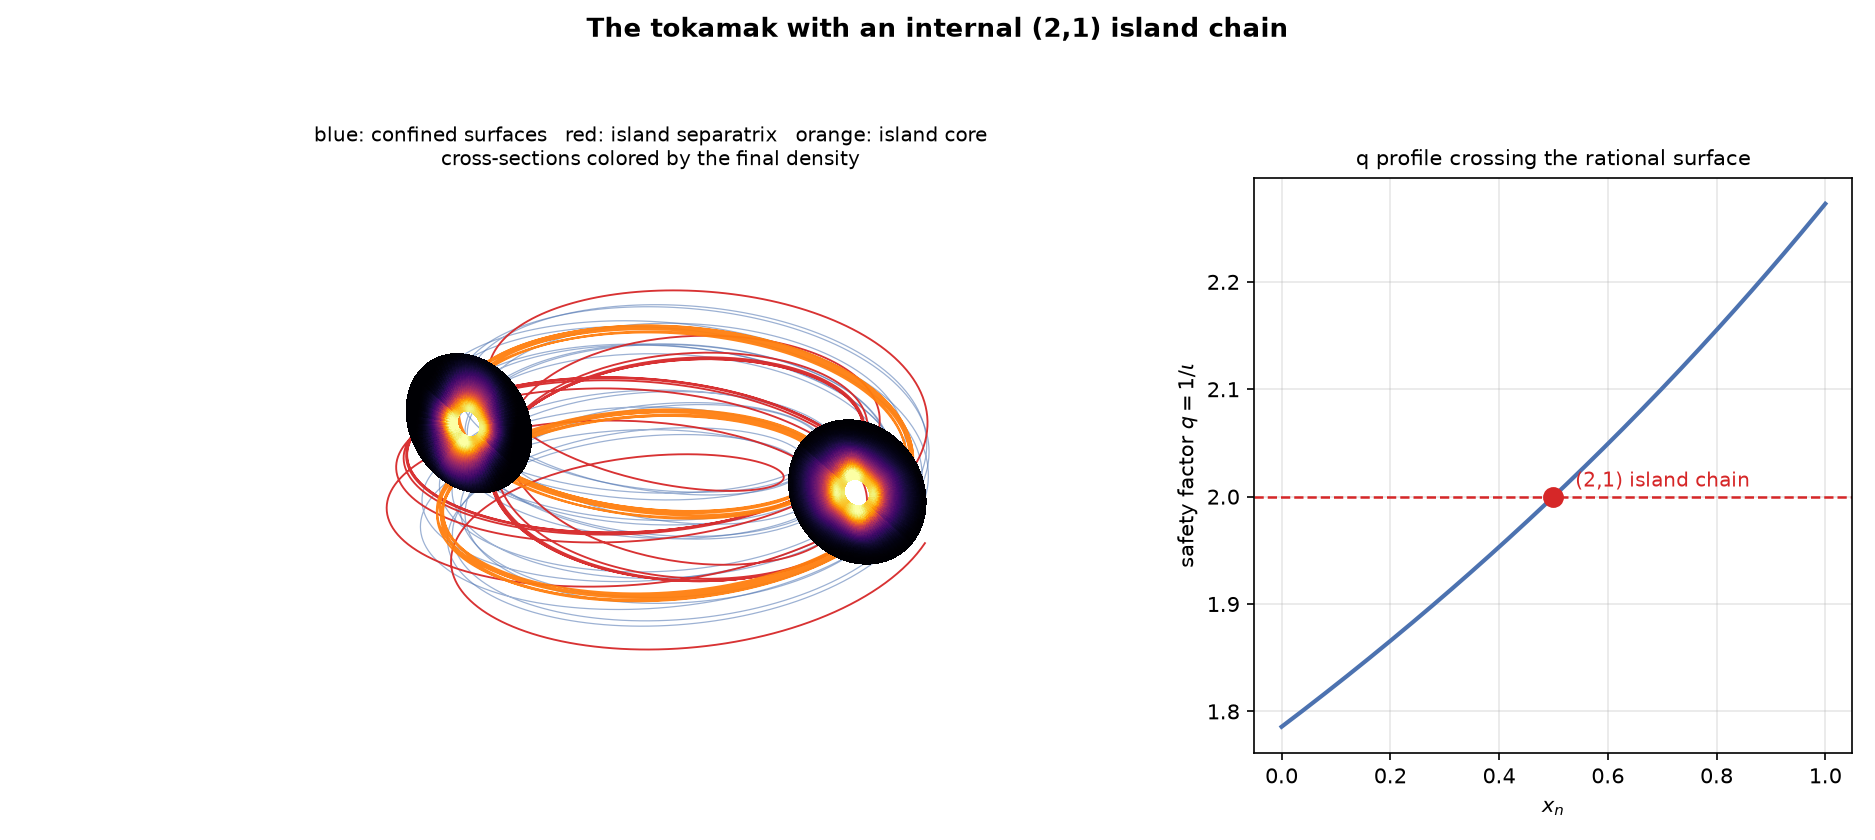
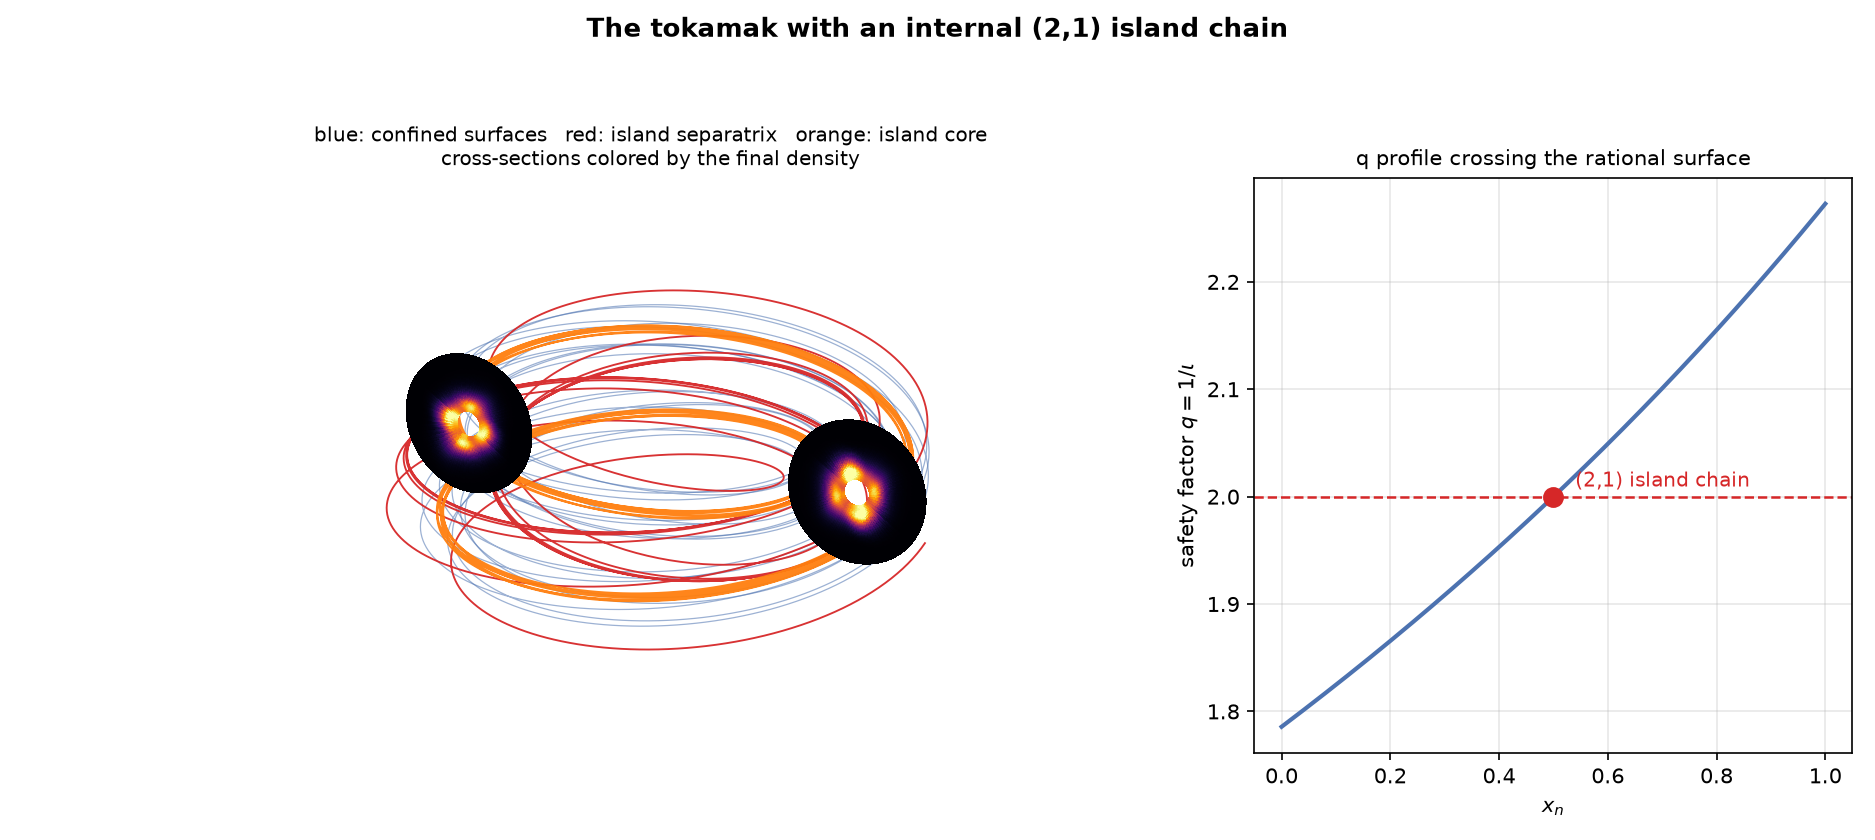
island tokamak: turbulent regime -- flattening recovered, media redone
The previous production run was subcritical (fluctuation energy 0.004)
and 85% of the movie was a static steady state. A drive-escalation
ladder (S0 x2, D /2, hyperviscosity eased per rung: fluctuation energy
0.004 -> 0.03 -> 0.21 -> 1.5) reaches a genuinely turbulent state, and
with it the classic island signature the damped regime could not
produce: the mean profile now FLATTENS across the chain, gradient ratio
inside/outside = 0.83 at 48x96x32 (0.73 in the pilot) -- Fitzpatrick's
criterion in numerical form, laminar-no-flattening vs
turbulent-flattened, reproducible from the env knobs alone.

All media are rebuilt from the turbulent run (S0 = 24, D = 0.005,
HYPER = 0.3, t = 6 -- the movie is now all dynamics: profile build-up,
instability onset, saturated blobs erupting through the cross-sections).
Docs and README carry the updated numbers and the two-regime story; the
recovered-vs-new table upgrades the flattening row from "not in the
default run" to recovered. The evolution renderer learned the four-plane
slice format, and the hyperviscosity became env-tunable
(DRBX_ISLAND_HYPER).

Changed region(s): [[0.4021, 0.4952, 0.4949, 0.65], [0.2165, 0.4333, 0.2784, 0.5881]]

diff --git a/examples/island_tokamak_profiles.py b/examples/island_tokamak_profiles.py
@@ -21,15 +21,13 @@ flux-driven:
   (48x96x32, fp32, ~1 h on a 16 GB GPU).
 
 The classic island observable -- mean-profile flattening across the chain
-as parallel transport short-circuits the radial gradient inside the
-separatrix -- is controlled here by the parallel-flow friction ``mu``
-(``DRBX_ISLAND_MU``): the default ``mu = 8`` keeps the drift-acoustic
-channel firmly damped (steady balance, but the parallel equilibration that
-flattens the island is throttled; measured gradient ratio inside/outside
-~1.3-1.4), while ``mu = 0.5`` under-damps it at these parameters (the run
-goes unstable). Mapping the intermediate regime -- where the island
-response emerges with the acoustic channel still under control -- is the
-intended experiment this example sets up.
+-- appears once cross-island transport is turbulence-dominated: at the
+default weak drive the state is laminar and the profile does NOT flatten
+(gradient ratio inside/outside ~1.3), while ``S0 = 24, D = 0.005,
+HYPER = 0.3`` gives a turbulent state (fluctuation energy ~2) whose profile
+flattens across the separatrix (ratio ~0.8). The parallel-flow friction
+``mu`` (``DRBX_ISLAND_MU``) stays at 8 in both regimes; lowering it far
+(0.5) under-damps the drift-acoustic channel and the run goes unstable.
 
 The whole step -- the RK4 advance of ``four_field_rk4_step`` plus source,
 wall sink, and hyperviscosity -- is compiled as ONE XLA program, which is
@@ -88,7 +86,7 @@ OMEGA_DIFF = 0.15
 # equilibration that flattens density along the island flux surfaces --
 # use small values when the island response is the observable.
 FRICTION_MU = float(os.environ.get("DRBX_ISLAND_MU", "8.0"))
-NU_HYPER = 1.5
+NU_HYPER = float(os.environ.get("DRBX_ISLAND_HYPER", "1.5"))
 N_FLOOR = 0.05
 SEED, AMP = 7, 0.05
 MODES = ((2, 1), (3, 1), (4, 2), (5, 2))

diff --git a/examples/island_tokamak_figure.py b/examples/island_tokamak_figure.py
@@ -133,6 +133,8 @@ def fig_evolution(npz_path):
     xn = np.asarray(d["xn"]); times = np.asarray(d["times"])
     prof = np.asarray(d["profile"])
     sl_n = np.asarray(d["slice_density"])
+    if sl_n.ndim == 4:                       # four-plane format: take zeta = 0
+        sl_n = sl_n[:, :, :, 0]
     sinks = np.asarray(d["sheath_loss"]) + np.asarray(d["wall_loss"])
     theta = np.linspace(0, 2 * np.pi, sl_n.shape[2], endpoint=False)
 

diff --git a/docs/island_tokamak.md b/docs/island_tokamak.md
@@ -78,22 +78,22 @@ of the same operations costs ~50x more in dispatch overhead.
 | Pendulum island width `W = 4 sqrt(eps/(m iota'))` (Wesson; White) | recovered to ~1% rms |
 | Flux-driven saturation convention (GBS / GRILLIX / TOKAM3X) | reproduced on an island geometry |
 | Density lobes locked to the island X-point phase | emergent in this model |
-| Mean-profile flattening across the island (Fitzpatrick, PoP 2, 825, 1995: requires the parallel channel to beat perpendicular transport over the island width) | *not* in the default run — see below |
+| Mean-profile flattening across the island (Fitzpatrick, PoP 2, 825, 1995) | recovered in the turbulence-dominated regime: gradient ratio inside/outside = 0.83 at `48x96x32` (0.73 in the resolution pilot) |
 | End-to-end differentiability of the island-tokamak state | new; no production DRB code offers it |
 
 The classic island signature — the mean profile flattening across the
-separatrix — is gated here by the parallel-flow friction `mu`
-(`DRBX_ISLAND_MU`). The default `mu = 8` keeps the drift-acoustic channel
-firmly damped: the balance is steady, but the parallel equilibration that
-flattens the island is throttled and the measured gradient ratio
-inside/outside the island band stays at ~1.3–1.4. At `mu = 0.5` the channel
-is under-damped at these parameters and the run goes unstable. This is the
-Fitzpatrick critical-width physics in numerical form: flattening requires
-effective parallel transport to win over perpendicular transport across the
-island, and the damped-parallel regime sits below that transition. Mapping
-the intermediate-`mu` regime — where the island response emerges with the
-acoustic channel still under control — is the experiment this example sets
-up.
+separatrix — appears once the transport across the island is
+turbulence-dominated. In the weakly-driven collisional regime
+(`S0 = 2.5`, `D = 0.04`) the state is laminar and the gradient ratio
+inside/outside the island band sits at 1.3–1.4: no flattening, consistent
+with Fitzpatrick's criterion (PoP 2, 825, 1995) that flattening requires
+transport along/around the island to beat the cross-island transport.
+Raising the drive and cutting the collisional diffusion
+(`S0 = 24`, `D = 0.005`, `HYPER = 0.3`) makes the state turbulent
+(fluctuation energy ~2) and the profile flattens across the chain — the
+gradient ratio drops to 0.83 at production resolution. The escalation
+ladder from laminar to flattened (fluctuation energy 0.004 → 0.03 → 0.2 →
+1.5 as the drive doubles) is reproducible with the env knobs alone.
 
 ## Reproducing
 
@@ -104,8 +104,9 @@ DRBX_ISLAND_SHAPE=16,32,12 DRBX_ISLAND_STEPS=400 \
 
 # GPU production (fp32; fp64 runs at 1/64 rate on consumer GPUs)
 DRBX_PRECISION=float32 DRBX_ISLAND_SHAPE=48,96,32 \
-  DRBX_ISLAND_DT=2.5e-4 DRBX_ISLAND_STEPS=80000 DRBX_ISLAND_EPS=0.03 \
-  DRBX_ISLAND_S0=2.5 python examples/island_tokamak_profiles.py
+  DRBX_ISLAND_DT=2.5e-4 DRBX_ISLAND_STEPS=24000 DRBX_ISLAND_EPS=0.03 \
+  DRBX_ISLAND_S0=24 DRBX_ISLAND_D=0.005 DRBX_ISLAND_HYPER=0.3 \
+  python examples/island_tokamak_profiles.py
 
 # figures and movies
 python examples/island_tokamak_figure.py poincare

diff --git a/README.md b/README.md
@@ -108,8 +108,8 @@ connection-length region, and the turbulence drains through it:
 `q = 2` surface opens an island chain; the four-field model then evolves the
 density flux-driven — source shell in, wall buffer out, nothing clamped. The
 traced islands match the pendulum width `W = 4 sqrt(eps/(m |iota'|))` to ~1%,
-and the density locks onto the island phase, with lobes at the X-point
-columns. Production `48x96x32` runs take ~1 h on one 16 GB GPU (the whole
+and in the turbulence-dominated regime the mean profile flattens across
+the chain (gradient ratio 0.83), the classic island signature. Production `48x96x32` runs take ~1 h on one 16 GB GPU (the whole
 step is a single XLA program):
 
 ![Tokamak island chain in 3-D](docs/media/island_tokamak_3d.png)
